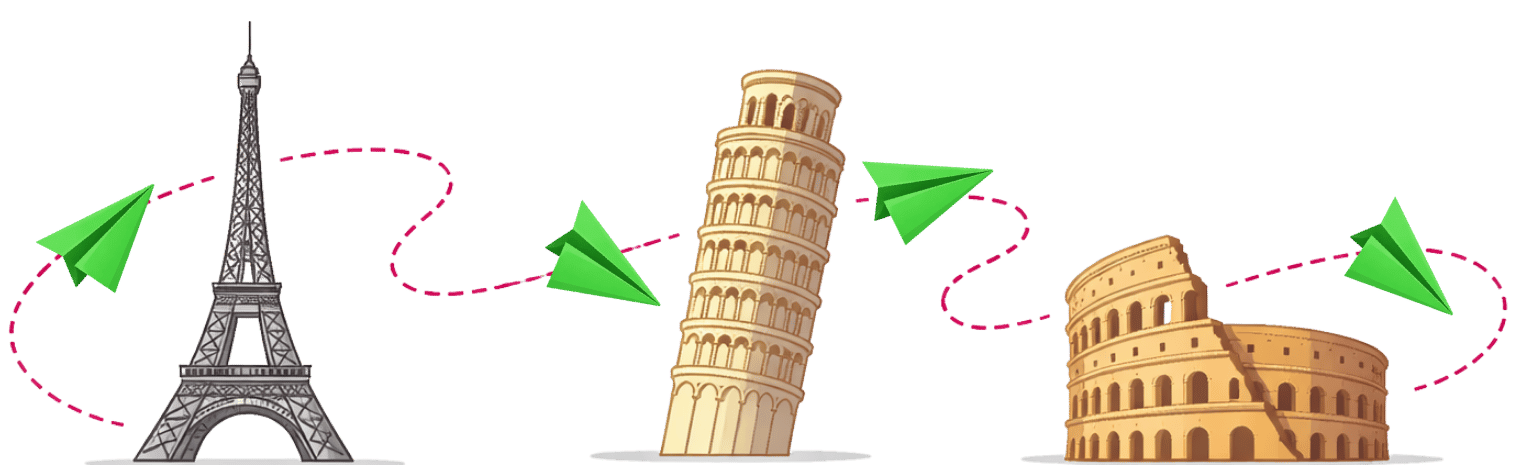
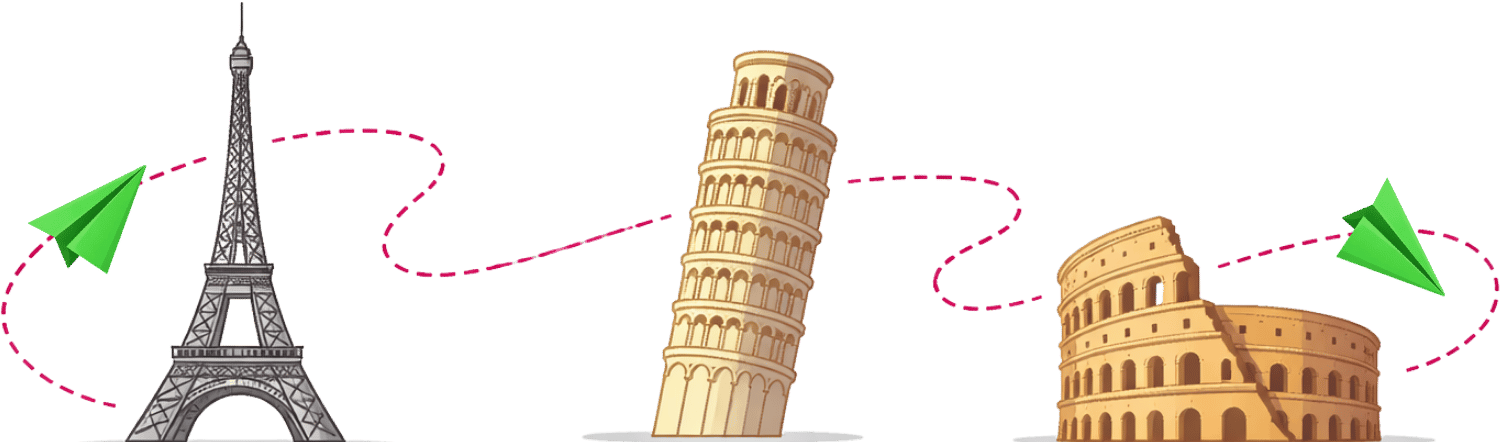
landing page 4

diff --git a/src/components/steps/Steps.vue b/src/components/steps/Steps.vue
@@ -1,74 +1,73 @@
 <template>
     <v-container fluid :class="$vuetify.display.smAndUp ? 'px-16 pb-10' : 'px-0 pb-10'">
-        <v-card elevation="0" class="bg-steps" rounded="xl">
+        <v-card class="" elevation="0">
             <v-row fluid align="center" class="mt-5 pa-3">
 
                 <!-- RIGHT SIDE -->
 
-                <v-col  :cols="$vuetify.display.smAndUp ? '6' : '12'">
-                    
+                <v-col :cols="$vuetify.display.smAndUp ? '6' : '12'">
 
-                    <h2 class="section-title text-center px-3">
-                        Profitez d’internet partout en seulement 3 étapes
-                    </h2>
-
-                    <v-img :src="paris" height="300" class="" />
+                    <v-img :src="barcelona" height="" class="" />
 
                 </v-col>
 
                 <!-- LEFT SIDE -->
 
                 <v-col :cols="$vuetify.display.smAndUp ? '6' : '12'">
-                    <div class="step-card">
+                    <v-card class=" " elevation="0" >
+                        <h2 class="section-title text-center mb-5">
+                            Profitez d’internet partout en seulement 3 étapes
+                        </h2>
+                        <div class="step-card bg-steps">
 
-                        <div class="step-number">01</div>
+                            <div class="step-number">01</div>
 
-                        <v-icon size="40">mdi-cart-outline</v-icon>
+                            <v-icon size="40">mdi-cart-outline</v-icon>
 
-                        <div>
-                            <p class="step-text">
-                                <b>Choisissez votre destination</b> et le nombre de jours
-                                pour votre forfait eSIM.
-                            </p>
-                            <a class="compatibility">
-                                Choisir destination →
-                            </a>
+                            <div>
+                                <p class="step-text">
+                                    <b>Choisissez votre destination</b> et le nombre de jours
+                                    pour votre forfait eSIM.
+                                </p>
+                                <a class="compatibility">
+                                    Choisir destination →
+                                </a>
+                            </div>
+
                         </div>
 
-                    </div>
 
+                        <div class="step-card  bg-steps">
 
-                    <div class="step-card">
+                            <div class="step-number ">02</div>
 
-                        <div class="step-number">02</div>
+                            <v-icon size="40">mdi-qrcode-scan</v-icon>
 
-                        <v-icon size="40">mdi-qrcode-scan</v-icon>
+                            <div>
+                                <p class="step-text">
+                                    <b>Installez votre eSIM</b> facilement grâce
+                                    au QR code reçu par e-mail.
+                                </p>
+                            </div>
 
-                        <div>
-                            <p class="step-text">
-                                <b>Installez votre eSIM</b> facilement grâce
-                                au QR code reçu par e-mail.
-                            </p>
                         </div>
 
-                    </div>
 
+                        <div class="step-card bg-steps">
 
-                    <div class="step-card">
+                            <div class="step-number">03</div>
 
-                        <div class="step-number">03</div>
+                            <v-icon size="40">mdi-cellphone-wireless</v-icon>
 
-                        <v-icon size="40">mdi-cellphone-wireless</v-icon>
+                            <div>
+                                <p class="step-text">
+                                    <b>Activez votre connexion</b> à votre arrivée
+                                    et profitez d’internet immédiatement.
+                                </p>
+                            </div>
 
-                        <div>
-                            <p class="step-text">
-                                <b>Activez votre connexion</b> à votre arrivée
-                                et profitez d’internet immédiatement.
-                            </p>
                         </div>
-
-                    </div>
-
+                    </v-card>
                 </v-col>
             </v-row>
         </v-card>
@@ -78,6 +77,8 @@
 <script>
 import { useDisplay } from "vuetify";
 import paris from "../../assets/paris.png";
+import barcelona from "../../assets/barcelona.png";
+
 
 export default {
     name: "Header",
@@ -92,6 +93,7 @@ export default {
     data() {
         return {
             paris: paris,
+            barcelona: barcelona,
         };
     },
     computed: {
@@ -116,7 +118,6 @@ export default {
     background-image: url("../../assets/steps.png");
     background-size: cover;
     background-position: center;
-    min-height: 500px;
 }
 
 .images-row {
@@ -130,9 +131,8 @@ export default {
     gap: 20px;
     padding: 22px;
     border-radius: 16px;
-    background: #f3efe9;
     margin-bottom: 20px;
-    border: 1px solid pURPle;
+    border: 1px solid #D81B60 ;
 }
 
 .step-number {

diff --git a/src/components/marketing/Marketing.vue b/src/components/marketing/Marketing.vue
@@ -1,54 +1,48 @@
 <template>
-    <v-container fluid :class="$vuetify.display.smAndUp ? 'px-16 pb-' : 'px-0 pb-10'" >
+    <v-container fluid :class="$vuetify.display.smAndUp ? 'px-16 pb-10' : 'px-0 pb-10'">
 
         <v-card elevation="0" class="bg-marketing" rounded="xl">
-                <div >
-                    <v-row  fluid class="pa-8" align="center">
-                        
-                        <!-- IMAGES -->
-                        <v-col cols="12" md="5">
+            <div>
+                <v-row fluid  align="center">
 
-                            <v-row>
-                                <v-col cols="6">
-                                    <v-img src="/img/plane.jpg" height="260" cover rounded="xl" />
-                                </v-col>
+                    <!-- IMAGES -->
+                    <v-col class="px-8 " :cols="$vuetify.display.smAndUp ? '6' : '12'">
 
-                                <v-col cols="6">
-                                    <v-img src="/img/traveler.jpg" height="260" cover rounded="xl" />
-                                </v-col>
-                            </v-row>
-                        </v-col>
+                        <v-img :src="barcelona" height="" class="" />
 
-                        <!-- CONTENT -->
-                        <v-col cols="12" md="7">
+                    </v-col>
 
-                            <h2 class="section-title mb-4">
-                                Pourquoi SAFAR SIM ?
-                            </h2>
+                    <!-- CONTENT -->
+                    <v-col  class="pa-8" :cols="$vuetify.display.smAndUp ? '6' : '12'">
 
-                            <p class="mb-4">
-                                Avec eSIM SAFAR SIM, profitez d’internet mobile dès votre arrivée,
-                                sans changer de carte SIM ni payer de frais d’itinérance.
-                            </p>
+                        <h2 class="section-title mb-4">
+                            Pourquoi SAFAR SIM ?
+                        </h2>
 
-                            <p class="mb-6">
-                                Installez votre eSIM en quelques secondes et connectez-vous
-                                dans plus de 160 destinations.
-                                Gardez votre numéro WhatsApp et naviguez comme un local.
-                            </p>
-                            
-                            <a class="compatibility">
-                                Acheter eSim SAFAR SIM →
-                            </a>
-                        </v-col>
-                    </v-row>
-                </div>
+                        <p class="mb-4">
+                            Avec eSIM SAFAR SIM, profitez d’internet mobile dès votre arrivée,
+                            sans changer de carte SIM ni payer de frais d’itinérance.
+                        </p>
+
+                        <p class="mb-6">
+                            Installez votre eSIM en quelques secondes et connectez-vous
+                            dans plus de 160 destinations.
+                            Gardez votre numéro WhatsApp et naviguez comme un local.
+                        </p>
+
+                        <a class="compatibility">
+                            Acheter eSim SAFAR SIM →
+                        </a>
+                    </v-col>
+                </v-row>
+            </div>
         </v-card>
 
     </v-container>
 </template>
 <script>
 import { useDisplay } from "vuetify";
+import barcelona from "../../assets/barcelona.png";
 
 export default {
     name: "Header",
@@ -62,6 +56,7 @@ export default {
 
     data() {
         return {
+            barcelona: barcelona,
         };
     },
     computed: {
@@ -77,7 +72,7 @@ export default {
     background-image: url("../../assets/marketing.png");
     background-size: cover;
     background-position: center;
-    min-height: 500px;
+    min-height: 420px;
 }
 
 .brand {
@@ -85,7 +80,7 @@ export default {
 }
 
 .info-row {
-    opacity: 0.85;    
+    opacity: 0.85;
     font-size: 16px;
 }
 

diff --git a/src/components/esim/Esim.vue b/src/components/esim/Esim.vue
@@ -2,23 +2,21 @@
     <v-container fluid :class="$vuetify.display.smAndUp ? 'px-16 mb-5' : ' px-0 mb-5'">
 
         <v-card class="esim-section px-8" elevation="0" rounded="xl">
-
             <v-row align="center">
-
-                <!-- LEFT CONTENT -->                
+                <!-- LEFT CONTENT -->
+                <v-col :cols="$vuetify.display.smAndUp ? '6' : '12'">
+                    <v-img :src="app_icons" height="" class="mb-5" />
+                </v-col>
+                <!-- RIGHT IMAGE -->
                 <v-col :cols="$vuetify.display.smAndUp ? '6' : '12'">
 
                     <h2 class="section-title text-center mb-4">
                         Continuez à utiliser vos applications préférées
                     </h2>
-                        <v-img :src="app_icons" height="250" class="" />
-                </v-col>
-                 <!-- RIGHT IMAGE -->
-                <v-col :cols="$vuetify.display.smAndUp ? '6' : '12'">
 
                     <p class="mb-6">
-                        Retrouvez facilement votre hébergement , 
-                        découvrez les meilleures adresses et explorez les sites incontournables , 
+                        Retrouvez facilement votre hébergement,
+                        découvrez les meilleures adresses et explorez les sites incontournables,
                         tout en restant connecté avec vos proches grâce à votre eSIM.
                     </p>
 

diff --git a/src/components/destinations/PopularDestinations.vue b/src/components/destinations/PopularDestinations.vue
@@ -1,5 +1,7 @@
 <template>
     <v-container fluid :class="$vuetify.display.smAndUp ? 'px-16 pb-5 destination-container' : 'px-6  pb-5 destination-container'">
+            
+        <v-img :src="flying_paper" height="100" class="mb-5"  />
         <div class="mb-5" align="center">
             <h2 class="section-title text-center">
                 Destinations Populaires
@@ -7,8 +9,6 @@
             <p class="text-body-smal">
                 Choisissez parmi nos 160 destinations <br>et profitez des forfaits flexibles adaptés à vos besoins de voyage.
             </p>
-            
-        <v-img :src="flying_paper" height="60" class="mb-2"  />
         </div>
 
         <v-row class="mb-5">
@@ -32,7 +32,7 @@
 import countries from "@/data/destinations";
 import DestinationCard from "./DestinationCard.vue"
 import { useDisplay } from "vuetify";
-import flying_paper from "../../assets/flying_paper.png";
+import flying_paper from "../../assets/line.png";
 
 export default {
     name: "Header",

diff --git a/src/components/hero/HeroSection.vue b/src/components/hero/HeroSection.vue
@@ -43,7 +43,6 @@
 
                         <v-col class="align-self-center" :cols="$vuetify.display.smAndUp ? '6' : '12'">
 
-                            <v-img :src="monuments" height="100" class="mb-5"></v-img>
                             <DestinationSearch :destinations="destinations" :popularDestinations="popularDestinations"
                                 @select="goToDestination" />
                         </v-col>
